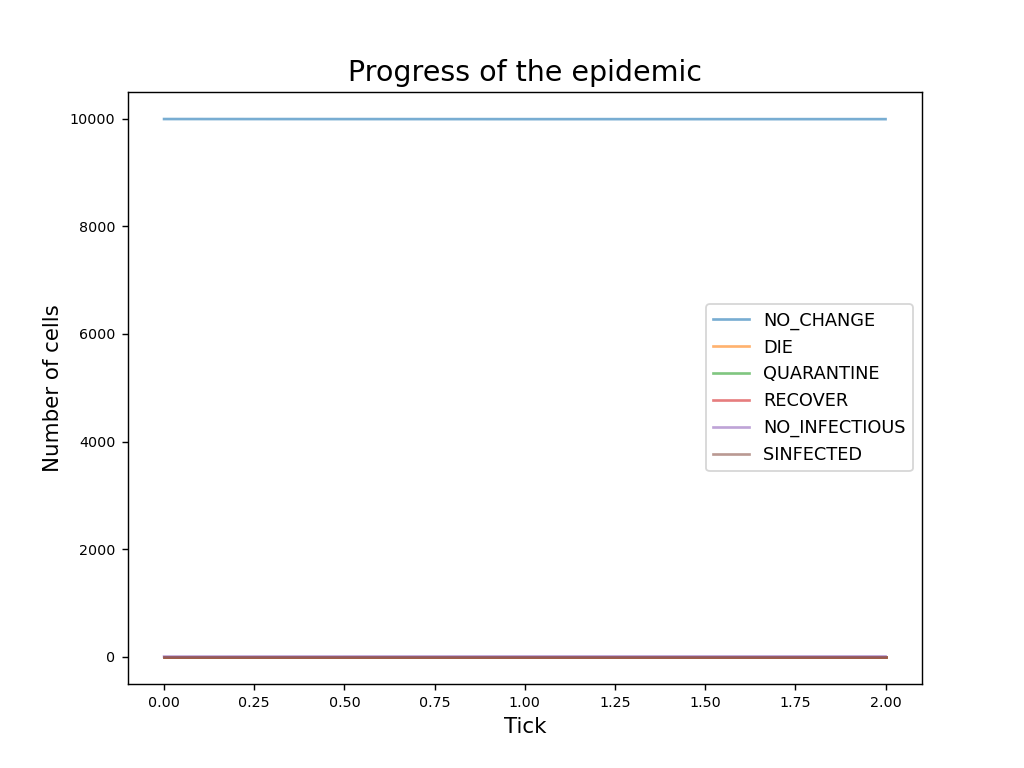
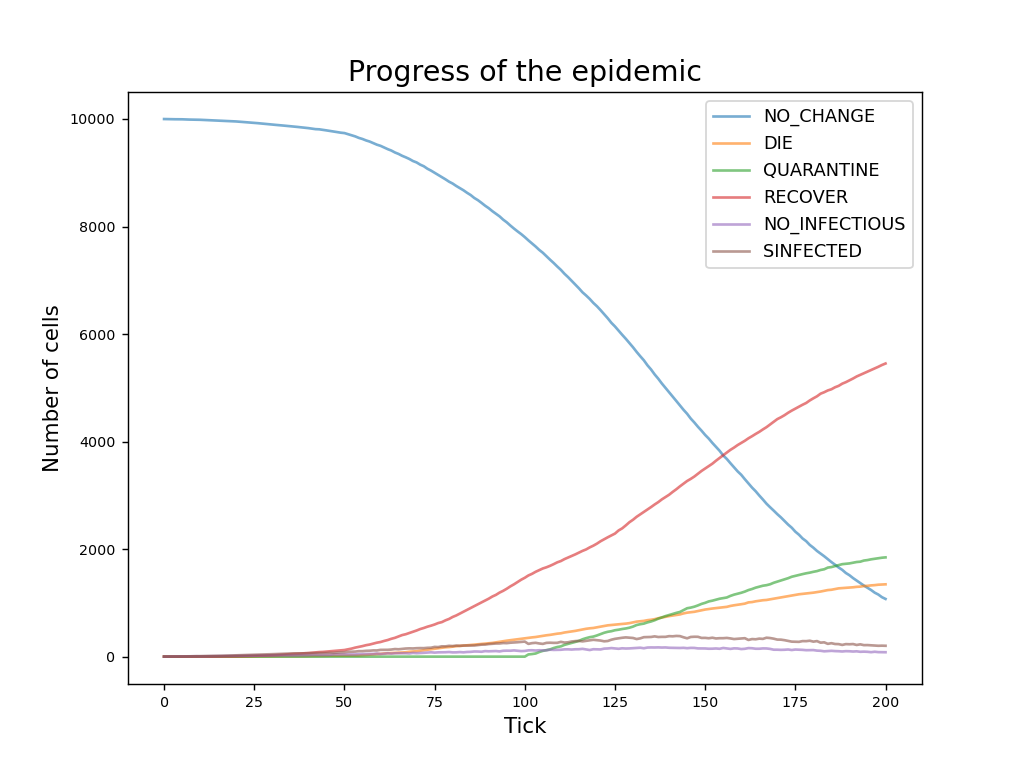
interaccion con el usuario

diff --git a/src/simulation/epiSim.cpp b/src/simulation/epiSim.cpp
@@ -30,7 +30,7 @@ ofstream name2("Data/DataStrain_name2.csv");
 
 int nStates = 6;
 int neighType = NEUMANN;
- int days = 2;
+ int days = 200;
  int nStrain  = 2;
  
  double probability = 0.6;
